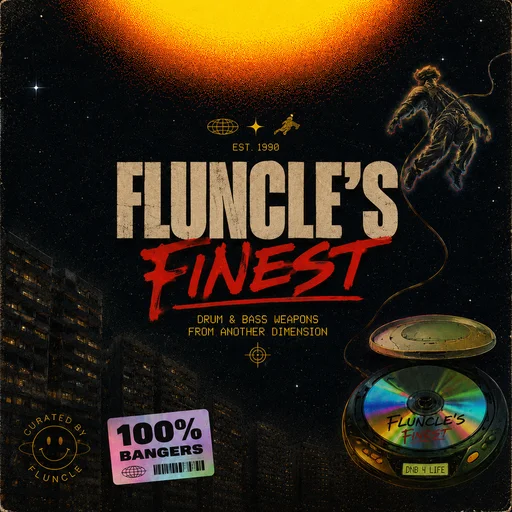
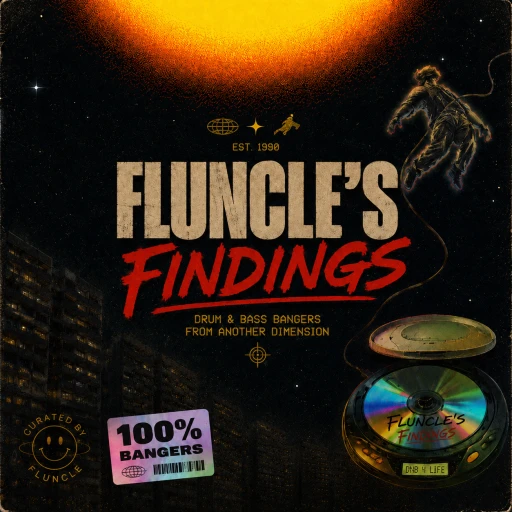
feat: enrichment fields in recent, new cover webp, demote fluncle-video skill
- CLI `recent` now carries the enrichment set (bpm, key, enrichmentStatus,
  tagsSource, videoUrl) so the list view exposes what the API already returns.
- Regenerate fluncle-cover.webp from the updated PNG ("Fluncle's Findings").
- Demote the fluncle-video skill: drop its installed copy + symlink and its
  skills-lock entry so the enrichment agent isn't distracted by a second skill;
  the source stays in packages/skills/fluncle-video as the render doctrine.

diff --git a/apps/cli/src/commands/recent.ts b/apps/cli/src/commands/recent.ts
@@ -16,6 +16,11 @@ export type RecentTrack = {
   popularity?: number;
   previewUrl?: string;
   tags?: string[];
+  bpm?: number;
+  key?: string;
+  enrichmentStatus?: string;
+  tagsSource?: string;
+  videoUrl?: string;
   addedToSpotify: boolean;
   postedToTelegram: boolean;
 };
@@ -37,6 +42,11 @@ type TracksResponse = {
     popularity?: number;
     previewUrl?: string;
     tags?: string[];
+    bpm?: number;
+    key?: string;
+    enrichmentStatus?: string;
+    tagsSource?: string;
+    videoUrl?: string;
     addedToSpotify?: boolean;
     postedToTelegram?: boolean;
   }>;
@@ -54,8 +64,11 @@ export async function recentCommand(limit: number): Promise<RecentTrack[]> {
       album: track.album,
       albumImageUrl: track.albumImageUrl,
       artists: track.artists,
+      bpm: track.bpm,
       durationMs: track.durationMs,
+      enrichmentStatus: track.enrichmentStatus,
       isrc: track.isrc,
+      key: track.key,
       label: track.label,
       logId: track.logId,
       note: track.note,
@@ -64,8 +77,10 @@ export async function recentCommand(limit: number): Promise<RecentTrack[]> {
       previewUrl: track.previewUrl,
       spotifyUrl: track.spotifyUrl,
       tags: track.tags,
+      tagsSource: track.tagsSource,
       title: track.title,
       trackId: track.trackId,
+      videoUrl: track.videoUrl,
     };
   });
 }

diff --git a/.agents/skills/fluncle-track-enrichment/scripts/analyze-track.ts b/.agents/skills/fluncle-track-enrichment/scripts/analyze-track.ts
@@ -36,7 +36,9 @@ const title = arg("title");
 const isrc = arg("isrc");
 
 if (!artist || !title) {
-  console.error('usage: bun analyze-track.ts --artist "<artist>" --title "<title>" [--isrc <isrc>]');
+  console.error(
+    'usage: bun analyze-track.ts --artist "<artist>" --title "<title>" [--isrc <isrc>]',
+  );
   process.exit(1);
 }
 
@@ -86,7 +88,9 @@ async function resolvePreview(): Promise<Preview | undefined> {
   // 3. iTunes search fallback.
   try {
     const term = encodeURIComponent(`${artist} ${title}`);
-    const response = await fetch(`https://itunes.apple.com/search?term=${term}&media=music&limit=8`);
+    const response = await fetch(
+      `https://itunes.apple.com/search?term=${term}&media=music&limit=8`,
+    );
     const body = (await response.json()) as {
       results?: Array<{ artistName?: string; previewUrl?: string; trackName?: string }>;
     };